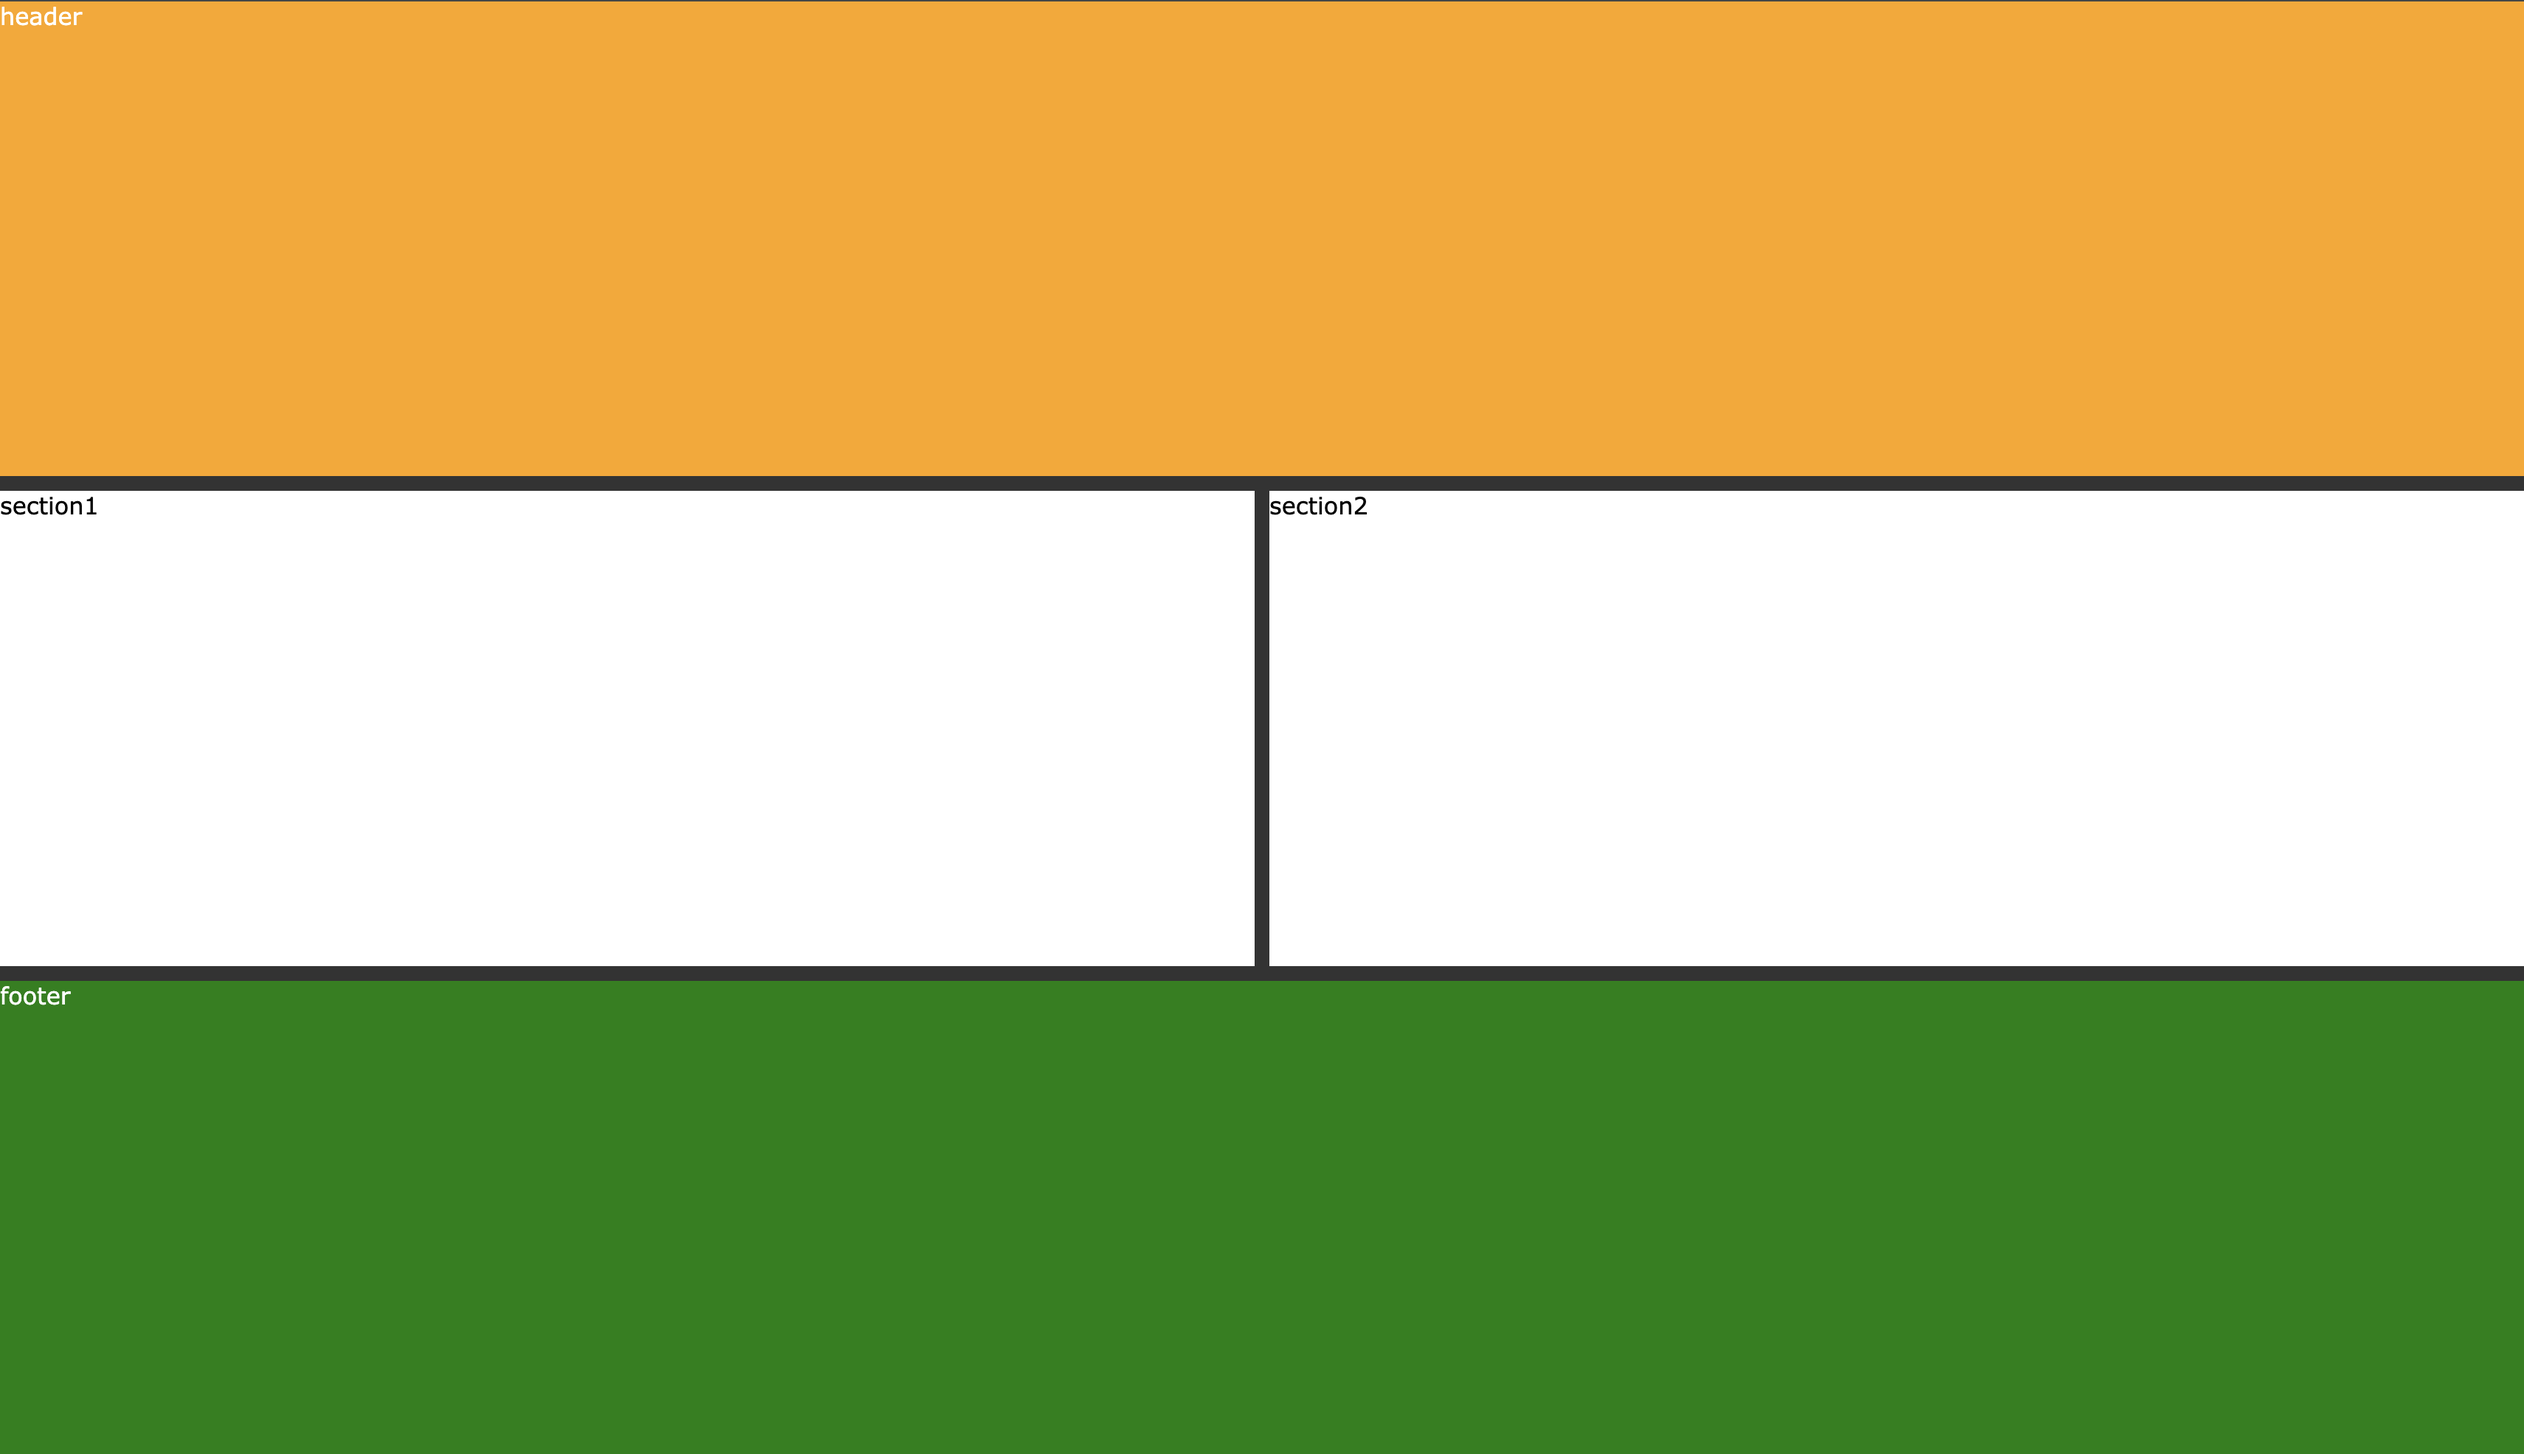
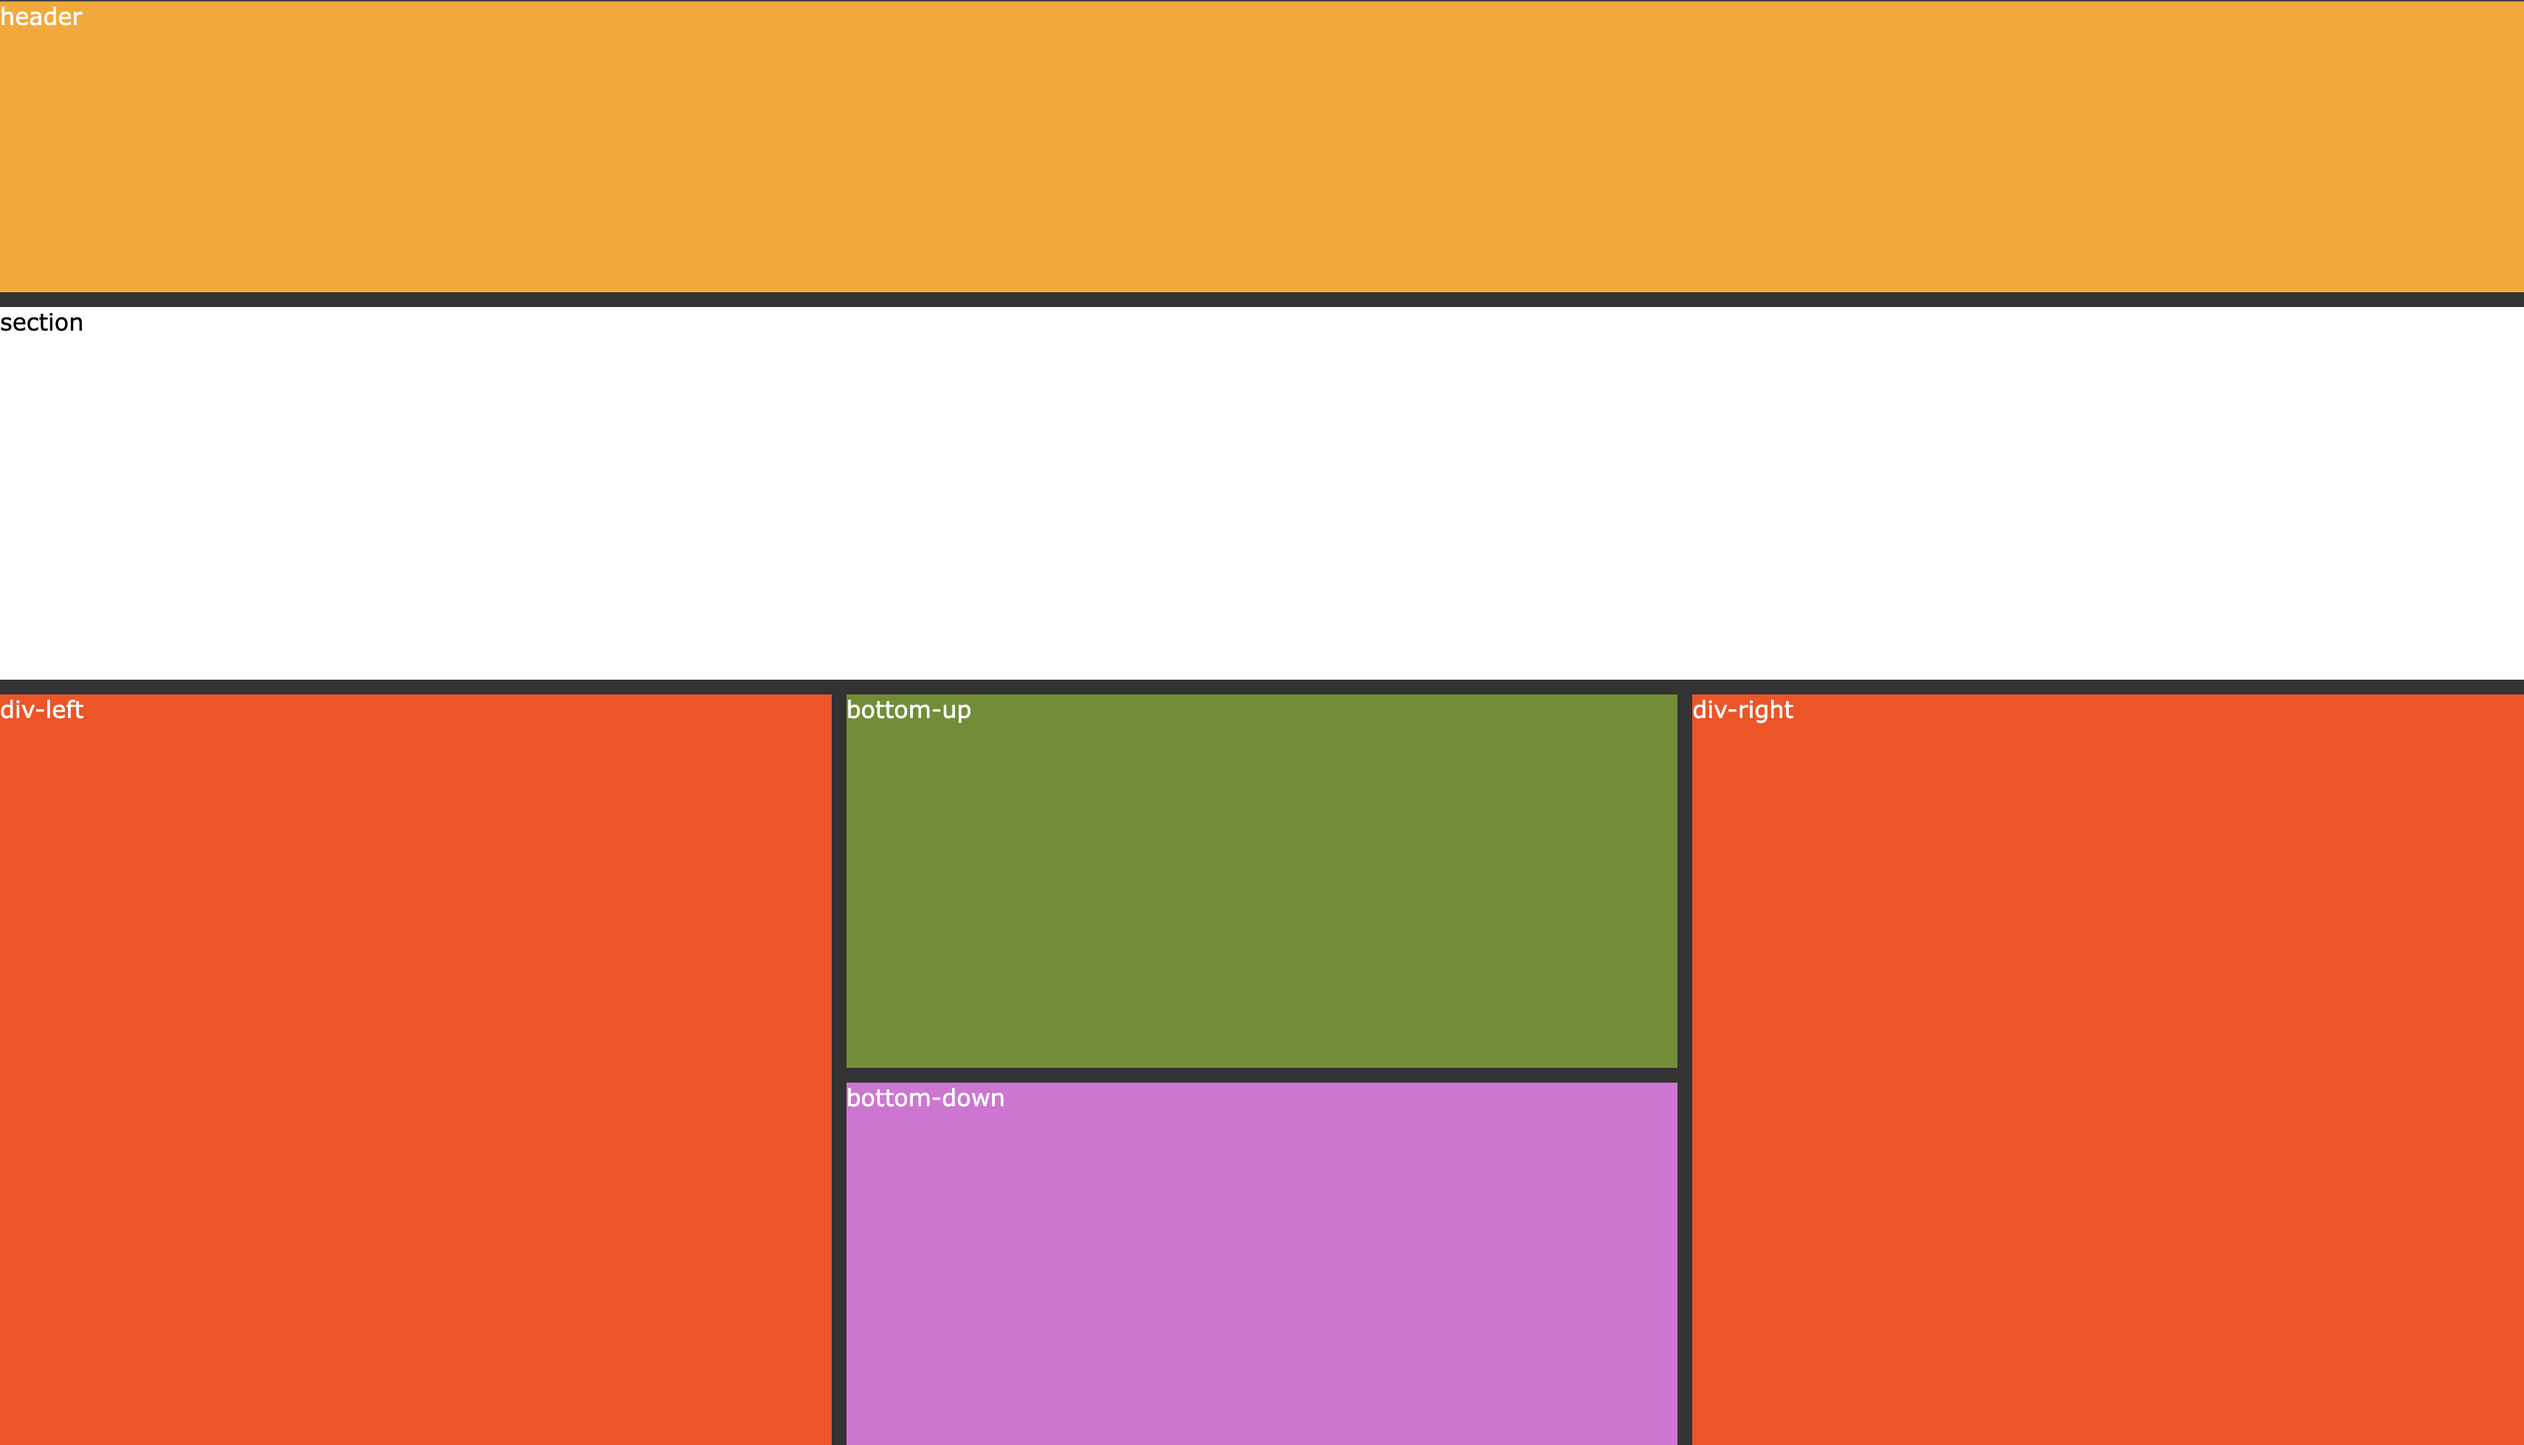
Grid-layout

diff --git a/Dummy Projects/Grid/style.css b/Dummy Projects/Grid/style.css
@@ -16,12 +16,13 @@ main{
     width: 100%;
     background: #333;
     display: grid;
-    grid-template-columns: 1fr 1fr;
-    grid-template-rows: 1fr 1fr 1fr;
+    grid-template-columns: 1fr 1fr 1fr;
+    grid-template-rows: 20% 1fr 1fr 1fr;
     grid-gap: 10px;
-    grid-template-areas: "header header"
-                        "section1 section2"
-                        "footer footer";
+    grid-template-areas: "header header header"
+                        "section section section"
+                        "div-left bottom-up div-right"
+                        "div-left bottom-down div-right";
 }
 
 header{
@@ -29,19 +30,28 @@ header{
     grid-area: header;
 }
 
-#section1{
+#section{
     background-color: white;
     color: black;
-    grid-area: section1;
+    grid-area: section;
 }
 
-#section2{
-    background-color: white;
-    color: black;
-    grid-area: section2;
+#div-left{
+    background-color: orangered;
+    grid-area: div-left;
 }
 
-footer{
-    background-color: green;
-    grid-area: footer;
+#bottom-up{
+    background-color: olivedrab;
+    grid-area: bottom-up;
+}
+
+#bottom-down{
+    background-color: orchid;
+    grid-area: bottom-down;
+}
+
+#div-right{
+    background-color: orangered;
+    grid-area: div-right;
 }

diff --git a/Dummy Projects/Grid/index.html b/Dummy Projects/Grid/index.html
@@ -11,15 +11,21 @@
         <header>
             header
         </header>
-        <section id="section1">
-            section1
+        <section id="section">
+            section
         </section>
-        <section id="section2">
-            section2
+        <section id="div-left">
+            div-left
         </section>
-        <footer>
-            footer
-        </footer>
+        <section id="bottom-up">
+            bottom-up
+        </section>
+        <section id="bottom-down">
+            bottom-down
+        </section>
+        <section id="div-right">
+            div-right
+        </section>
     </main>
 </body>
 </html>
